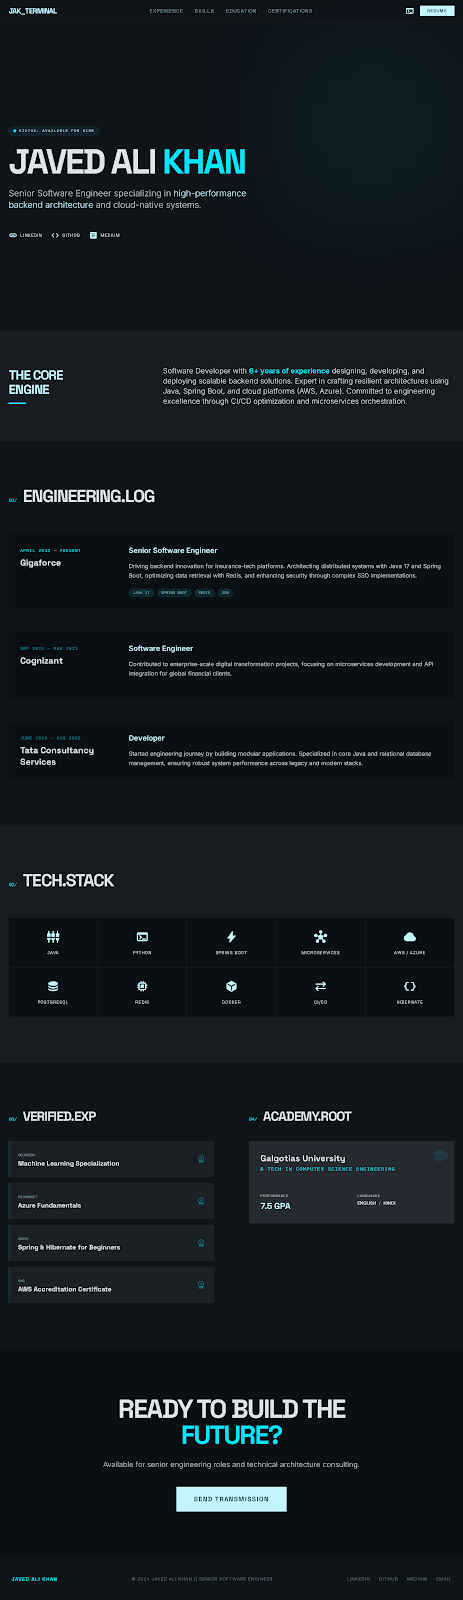
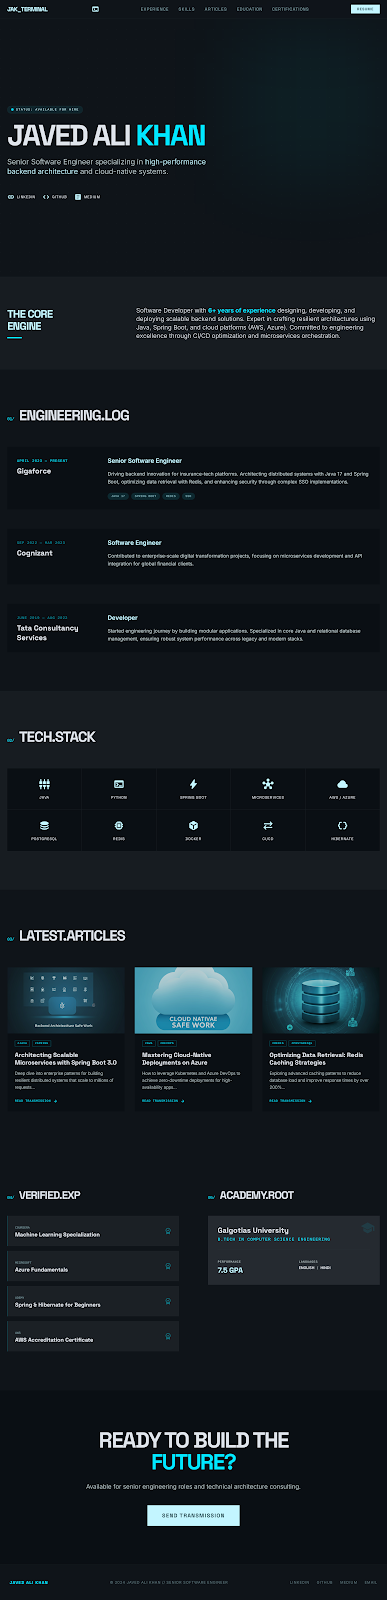
added article (#5)
* feat: Redesigned website using Tailwind CSS, removing legacy styling and assets.

* feat: add screen capture and disable hiring badge in index.html

* added article

* added scroll to articles

diff --git a/index.html b/index.html
@@ -250,6 +250,17 @@
         box-shadow: 0 0 15px var(--glow-color);
       }
 
+      /* Hide scrollbar for Chrome, Safari and Opera */
+      .no-scrollbar::-webkit-scrollbar {
+        display: none;
+      }
+
+      /* Hide scrollbar for IE, Edge and Firefox */
+      .no-scrollbar {
+        -ms-overflow-style: none; /* IE and Edge */
+        scrollbar-width: none; /* Firefox */
+      }
+
       /* Smooth theme transition for key elements */
       nav,
       section,
@@ -301,6 +312,11 @@
             class="text-primary/60 hover:text-primary transition-colors"
             href="#skills"
             >Skills</a
+          >
+          <a
+            class="text-primary/60 hover:text-primary transition-colors"
+            href="#articles"
+            >Articles</a
           >
           <a
             class="text-primary/60 hover:text-primary transition-colors"
@@ -770,6 +786,50 @@
           </div>
         </div>
       </section>
+      <!-- Latest Articles Section -->
+      <section class="py-32 px-6 max-w-7xl mx-auto" id="articles">
+        <div class="flex items-baseline gap-4 mb-20">
+          <span
+            class="text-primary-container font-mono text-sm tracking-tighter"
+            >03/</span
+          >
+          <h2
+            class="text-5xl font-headline font-bold uppercase tracking-tighter"
+          >
+            LATEST.ARTICLES
+          </h2>
+        </div>
+        <div class="relative group/carousel">
+          <!-- Navigation Arrows -->
+          <button
+            id="scroll-left"
+            class="absolute -left-4 md:-left-12 top-1/2 -translate-y-1/2 z-10 bg-surface-container-high p-3 rounded-full border border-outline-variant/20 opacity-0 group-hover/carousel:opacity-100 transition-all hover:bg-primary hover:text-on-primary disabled:hidden"
+            title="Scroll Left"
+          >
+            <span class="material-symbols-outlined">chevron_left</span>
+          </button>
+
+          <div
+            id="articles-grid"
+            class="flex overflow-x-auto gap-8 scroll-smooth no-scrollbar pb-8 px-1"
+          >
+            <!-- Articles will be loaded dynamically via fetch -->
+            <div
+              class="w-full py-12 text-center text-on-surface-variant font-mono text-sm"
+            >
+              INITIALIZING NEURAL LINK TO MEDIUM...
+            </div>
+          </div>
+
+          <button
+            id="scroll-right"
+            class="absolute -right-4 md:-right-12 top-1/2 -translate-y-1/2 z-10 bg-surface-container-high p-3 rounded-full border border-outline-variant/20 opacity-0 group-hover/carousel:opacity-100 transition-all hover:bg-primary hover:text-on-primary disabled:hidden"
+            title="Scroll Right"
+          >
+            <span class="material-symbols-outlined">chevron_right</span>
+          </button>
+        </div>
+      </section>
       <!-- Certs & Education Section -->
       <section
         class="py-32 px-6 max-w-7xl mx-auto grid lg:grid-cols-2 gap-24"
@@ -780,7 +840,7 @@
           <div class="flex items-baseline gap-4 mb-12">
             <span
               class="text-primary-container font-mono text-sm tracking-tighter"
-              >03/</span
+              >04/</span
             >
             <h2
               class="text-4xl font-headline font-bold uppercase tracking-tighter"
@@ -900,7 +960,7 @@
           <div class="flex items-baseline gap-4 mb-12">
             <span
               class="text-primary-container font-mono text-sm tracking-tighter"
-              >04/</span
+              >05/</span
             >
             <h2
               class="text-4xl font-headline font-bold uppercase tracking-tighter"
@@ -1049,6 +1109,139 @@
         localStorage.setItem("theme", isDark ? "dark" : "light");
         updateIcon();
       });
+
+      // Medium Articles Integration
+      async function fetchMediumArticles() {
+        const grid = document.getElementById("articles-grid");
+        const RSS_URL = "https://medium.com/feed/@javedalikhan50";
+        const API_URL = `https://api.rss2json.com/v1/api.json?rss_url=${encodeURIComponent(RSS_URL)}`;
+
+        try {
+          const response = await fetch(API_URL);
+          const data = await response.json();
+
+          if (data.status === "ok") {
+            grid.innerHTML = ""; // Clear loader
+
+            // Show only first 3 articles to maintain layout balance,
+            // or all if you prefer. Using 3 for the grid.
+            data.items.forEach((item) => {
+              const articleCard = createArticleCard(item);
+              grid.innerHTML += articleCard;
+            });
+          } else {
+            throw new Error(data.message);
+          }
+        } catch (error) {
+          console.error("Medium Fetch Error:", error);
+          grid.innerHTML = `
+            <div class="w-full py-12 text-center text-error font-mono text-xs uppercase">
+              Failed to sync with Medium feed. <br/>
+              <a href="https://medium.com/@javedalikhan50" target="_blank" class="underline mt-2 inline-block">View on Medium directly</a>
+            </div>
+          `;
+        }
+      }
+
+      // Scroll Controls
+      const grid = document.getElementById("articles-grid");
+      const leftBtn = document.getElementById("scroll-left");
+      const rightBtn = document.getElementById("scroll-right");
+
+      const updateButtons = () => {
+        if (!grid) return;
+        leftBtn.style.display = grid.scrollLeft <= 5 ? "none" : "block";
+        const maxScroll = grid.scrollWidth - grid.clientWidth;
+        rightBtn.style.display =
+          grid.scrollLeft >= maxScroll - 5 ? "none" : "block";
+      };
+
+      leftBtn.addEventListener("click", () => {
+        grid.scrollBy({ left: -400, behavior: "smooth" });
+      });
+
+      rightBtn.addEventListener("click", () => {
+        grid.scrollBy({ left: 400, behavior: "smooth" });
+      });
+
+      grid.addEventListener("scroll", updateButtons);
+      window.addEventListener("resize", updateButtons);
+
+      // Initialize button state
+      updateButtons();
+
+      // Call updateButtons after a short delay once articles are loaded
+      const originalFetch = fetchMediumArticles;
+      fetchMediumArticles = async () => {
+        await originalFetch();
+        setTimeout(updateButtons, 500);
+      };
+
+      function createArticleCard(item) {
+        // Extract first image from content if thumbnail is missing
+        let imageUrl = item.thumbnail;
+        if (!imageUrl || imageUrl === "") {
+          const imgMatch = item.content.match(/<img[^>]+src="([^">]+)"/);
+          imageUrl = imgMatch
+            ? imgMatch[1]
+            : "https://images.unsplash.com/photo-1499750310107-5fef28a66643?auto=format&fit=crop&w=800&q=80";
+        }
+
+        // Clean description and create a short snippet
+        // Use a temporary DOM element to strip HTML tags safely
+        const tempDiv = document.createElement("div");
+        tempDiv.innerHTML = item.content;
+
+        // Remove figure/figcaption if they are at the start (usually just showing the title image again)
+        const figures = tempDiv.querySelectorAll("figure");
+        figures.forEach((f) => f.remove());
+
+        const textSnippet = tempDiv.textContent || tempDiv.innerText || "";
+        const shortDescription = textSnippet.substring(0, 140).trim() + "...";
+
+        // Tags (categories) - Ensure it's an array
+        const categories = Array.isArray(item.categories)
+          ? item.categories
+          : [];
+        const tagsHtml = categories
+          .map(
+            (tag) => `
+          <span class="text-[9px] font-mono text-primary-container border border-primary-container/30 px-2 py-0.5 uppercase tracking-widest">#${tag}</span>
+        `,
+          )
+          .join("");
+
+        return `
+          <a class="flex-shrink-0 w-[85vw] md:w-[380px] group bg-surface-container-lowest border border-outline-variant/10 hover:border-primary-container/40 transition-all overflow-hidden flex flex-col"
+             href="${item.link}"
+             target="_blank">
+            <div class="aspect-video overflow-hidden relative">
+              <img alt="${item.title}"
+                   class="w-full h-full object-cover group-hover:scale-105 transition-transform duration-500 opacity-80 group-hover:opacity-100"
+                   src="${imageUrl}" />
+              <div class="absolute inset-0 bg-primary-container/10 mix-blend-overlay"></div>
+            </div>
+            <div class="p-6 flex-grow flex flex-col">
+              <div class="flex flex-wrap gap-2 mb-4">
+                ${tagsHtml}
+              </div>
+              <h3 class="text-xl font-headline font-bold mb-3 group-hover:text-primary transition-colors leading-tight">
+                ${item.title}
+              </h3>
+              <p class="text-on-surface-variant text-sm font-body font-light leading-relaxed mb-6">
+                ${shortDescription}
+              </p>
+              <div class="mt-auto flex items-center text-primary-container font-mono text-[10px] uppercase tracking-widest gap-2">
+                Read transmission
+                <span class="material-symbols-outlined text-sm">arrow_forward</span>
+              </div>
+            </div>
+          </a>
+        `;
+      }
+
+      // Initialize fetch
+      fetchMediumArticles();
     </script>
   </body>
 </html>
